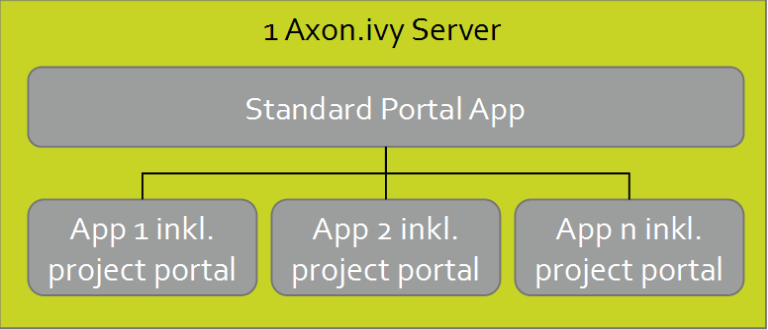
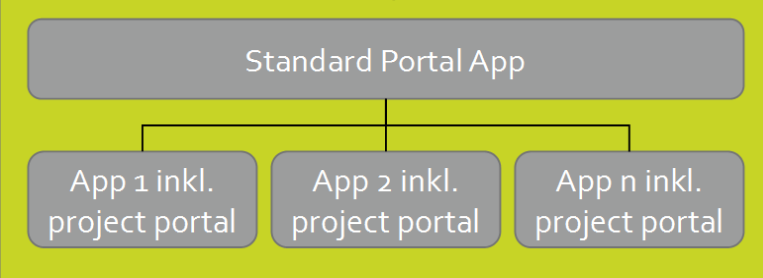
IVYPORTAL-9181 Needed features for release 8.0 - S184 - Updated content of configure multi apps

diff --git a/Documentation/PortalDeveloperGuide/source/settings/index.rst b/Documentation/PortalDeveloperGuide/source/settings/index.rst
@@ -17,6 +17,18 @@ it is used to configure Portal configuration, see different Portal
 configurations in
 :ref:`Portal mode <installation-basic-portal-mode>`
 
+How to open Admin Settings
+--------------------------
+
+Open ``Admin Settings`` by selecting the item in ``UserMenu`` on the
+topbar, if your page using layout of ``PortalTemplate`` .
+
+|multi-portal-open-settings|
+
+.. important:: 
+   If your application does not use templates of PortalTemplate project, you
+   have to create a page and use AdminSettings component inside.
+
 Global settings
 ---------------
 
@@ -36,69 +48,59 @@ clicking ``Restore All To Defaults`` button
 
 .. _settings-admin-settings-setup-multi-portals:
 
-Setup multi Portal applications
+Setup Portal multi applications
 -------------------------------
 
-.. important:: 
-   
-   There are 2 ways to configure portals:
+Portal provides two types of multi applications: ``Multi applications with overview`` and ``Multi applications (without overview)``
 
-   -  Multi applications with overview
+Multi applications with overview
+""""""""""""""""""""""""""""""""
+   .. important::
 
-      |multi-application-with-portal|
+      Used for related applications App1, App2, App3... of which we need to see all
+      tasks/cases in one page. Task/Case list of application named ``Portal`` would display all
+      tasks/cases of applications App1, App2, App3...
 
-      -  Used for related applications which we need an overview of all
-         tasks and cases.
+   |multi-application-with-portal|
 
-      -  Create a new application named ``Portal``. Deploy portal (kit,
-         template ..) to this application.
 
-      -  Create new applications: App1, App2, App3... Deploy portal
-         (kit, template ..) to new applications.
+   -  Create a new application named ``Portal``. Deploy portal (kit,
+      template ..) to this application.
 
-      -  Configure multi-apps Portal: login by Portal
-         Admin, configure applications: App1,
-         App2, App3...
+   -  Create new applications: App1, App2, App3... Deploy portal
+      (kit, template ..) to new applications.
 
-      -  Note that, ``do not`` add the application named ``Portal``, it is reserved
-         for displaying all tasks/cases... from all configured
-         applications.
+   -  Configure multi-apps Portal: login by Portal
+      Admin, configure applications: App1,
+      App2, App3...
 
-      -  Dashboard menu is only visible when logged-in user exists in
-         Portal application.
+   -  Note that, ``do not`` add the application named ``Portal``, it is reserved
+      for displaying all tasks/cases... from all configured
+      applications.
 
-   -  Multi applications
+   -  Dashboard menu is only visible when logged-in user exists in
+      Portal application.
 
-      |multi-application-without-portal|
+Multi applications (without overview)
+"""""""""""""""""""""""""""""""""""""
+   .. important::
 
-      -  Used for independent applications.
+      Used for independent applications App1, App2, App3... of which we ``do not`` need to see all
+      tasks/cases in one page.
 
-      -  Create new applications: App1, App2, App3... Deploy portal(kit,
-         template ..) to new applications. Note: must not create an
-         application named ``Portal``.
 
-      -  Configure multi-apps Portal: login by Portal
-         Admin, configure applications: App1,
-         App2, App3...
+   |multi-application-without-portal|
 
-Open Admin Settings
-"""""""""""""""""""
+   -  Create new applications: App1, App2, App3... Deploy portal(kit,
+      template ..) to new applications. Note: must not create an
+      application named ``Portal``.
 
-Open ``Admin Settings`` by selecting the item in ``UserMenu`` on the
-topbar, if your page using layout of ``PortalTemplate`` .
+   -  Configure multi-apps Portal: login by Portal
+      Admin, configure applications: App1,
+      App2, App3...
 
-|multi-portal-open-settings|
-
-.. important:: 
-   If your application does not use templates of PortalTemplate project, you
-   have to create a page and use AdminSettings component inside.
-
-..
-
-.. tip:: To be able to open Admin Settings dialog, user needs to have role AXONIVY_PORTAL_ADMIN.
-
-Add a new application
-"""""""""""""""""""""
+How to add a new application
+""""""""""""""""""""""""""""
 
 Choose ``Application`` tab on ``Admin Settings`` dialog and click on
 ``New`` button to add new application. Here you can choose application
